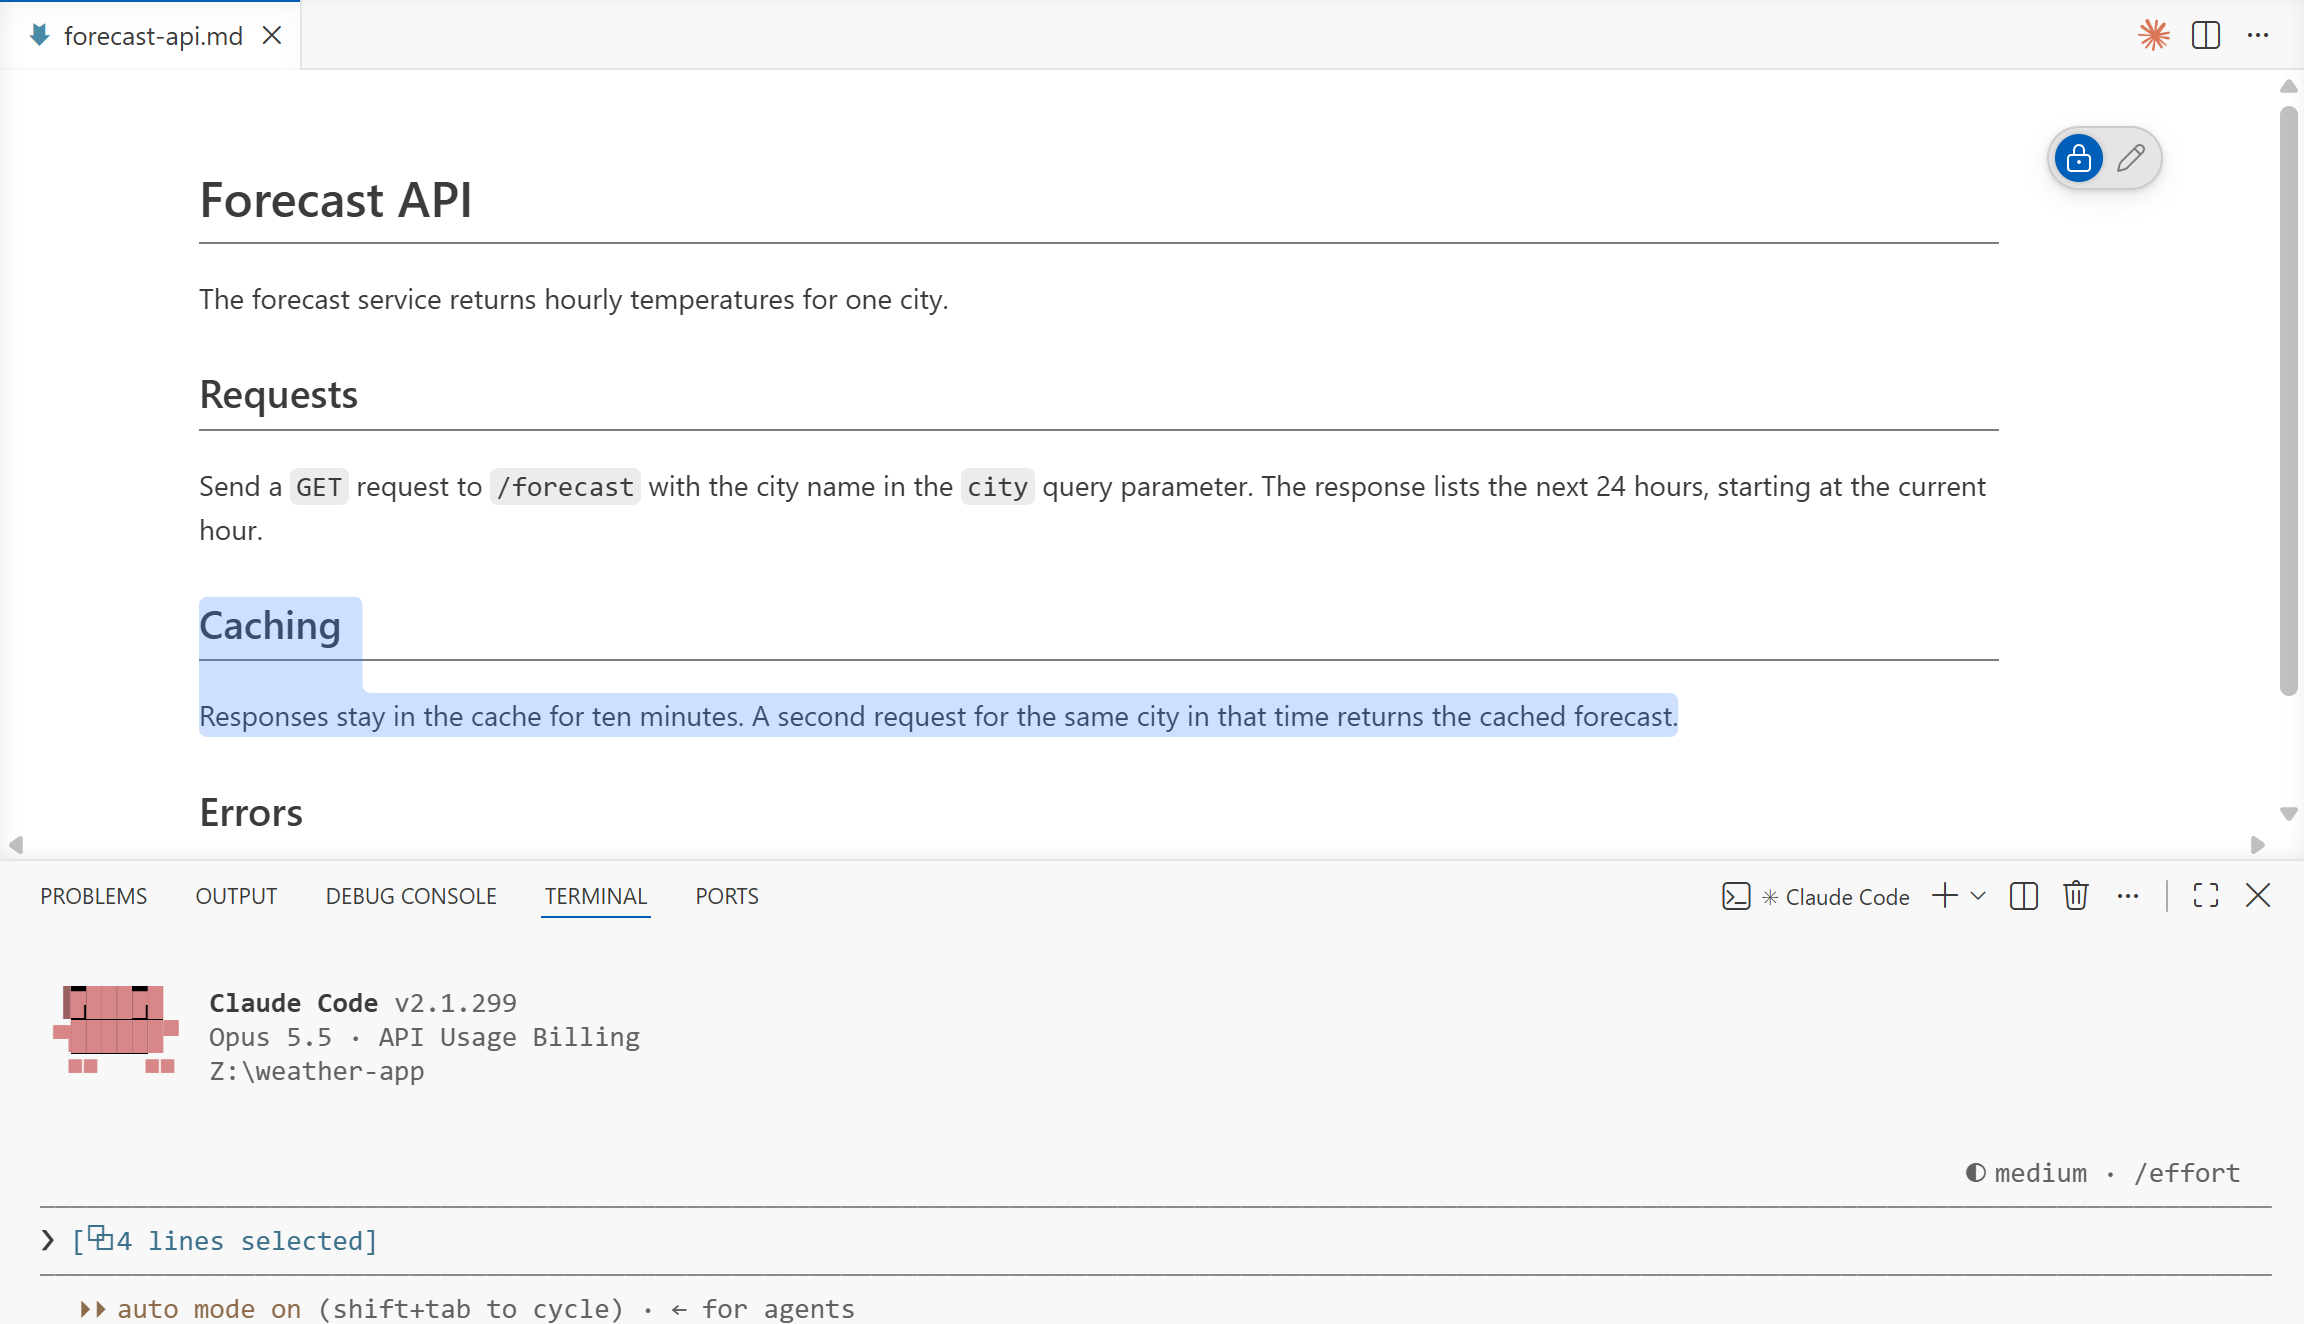
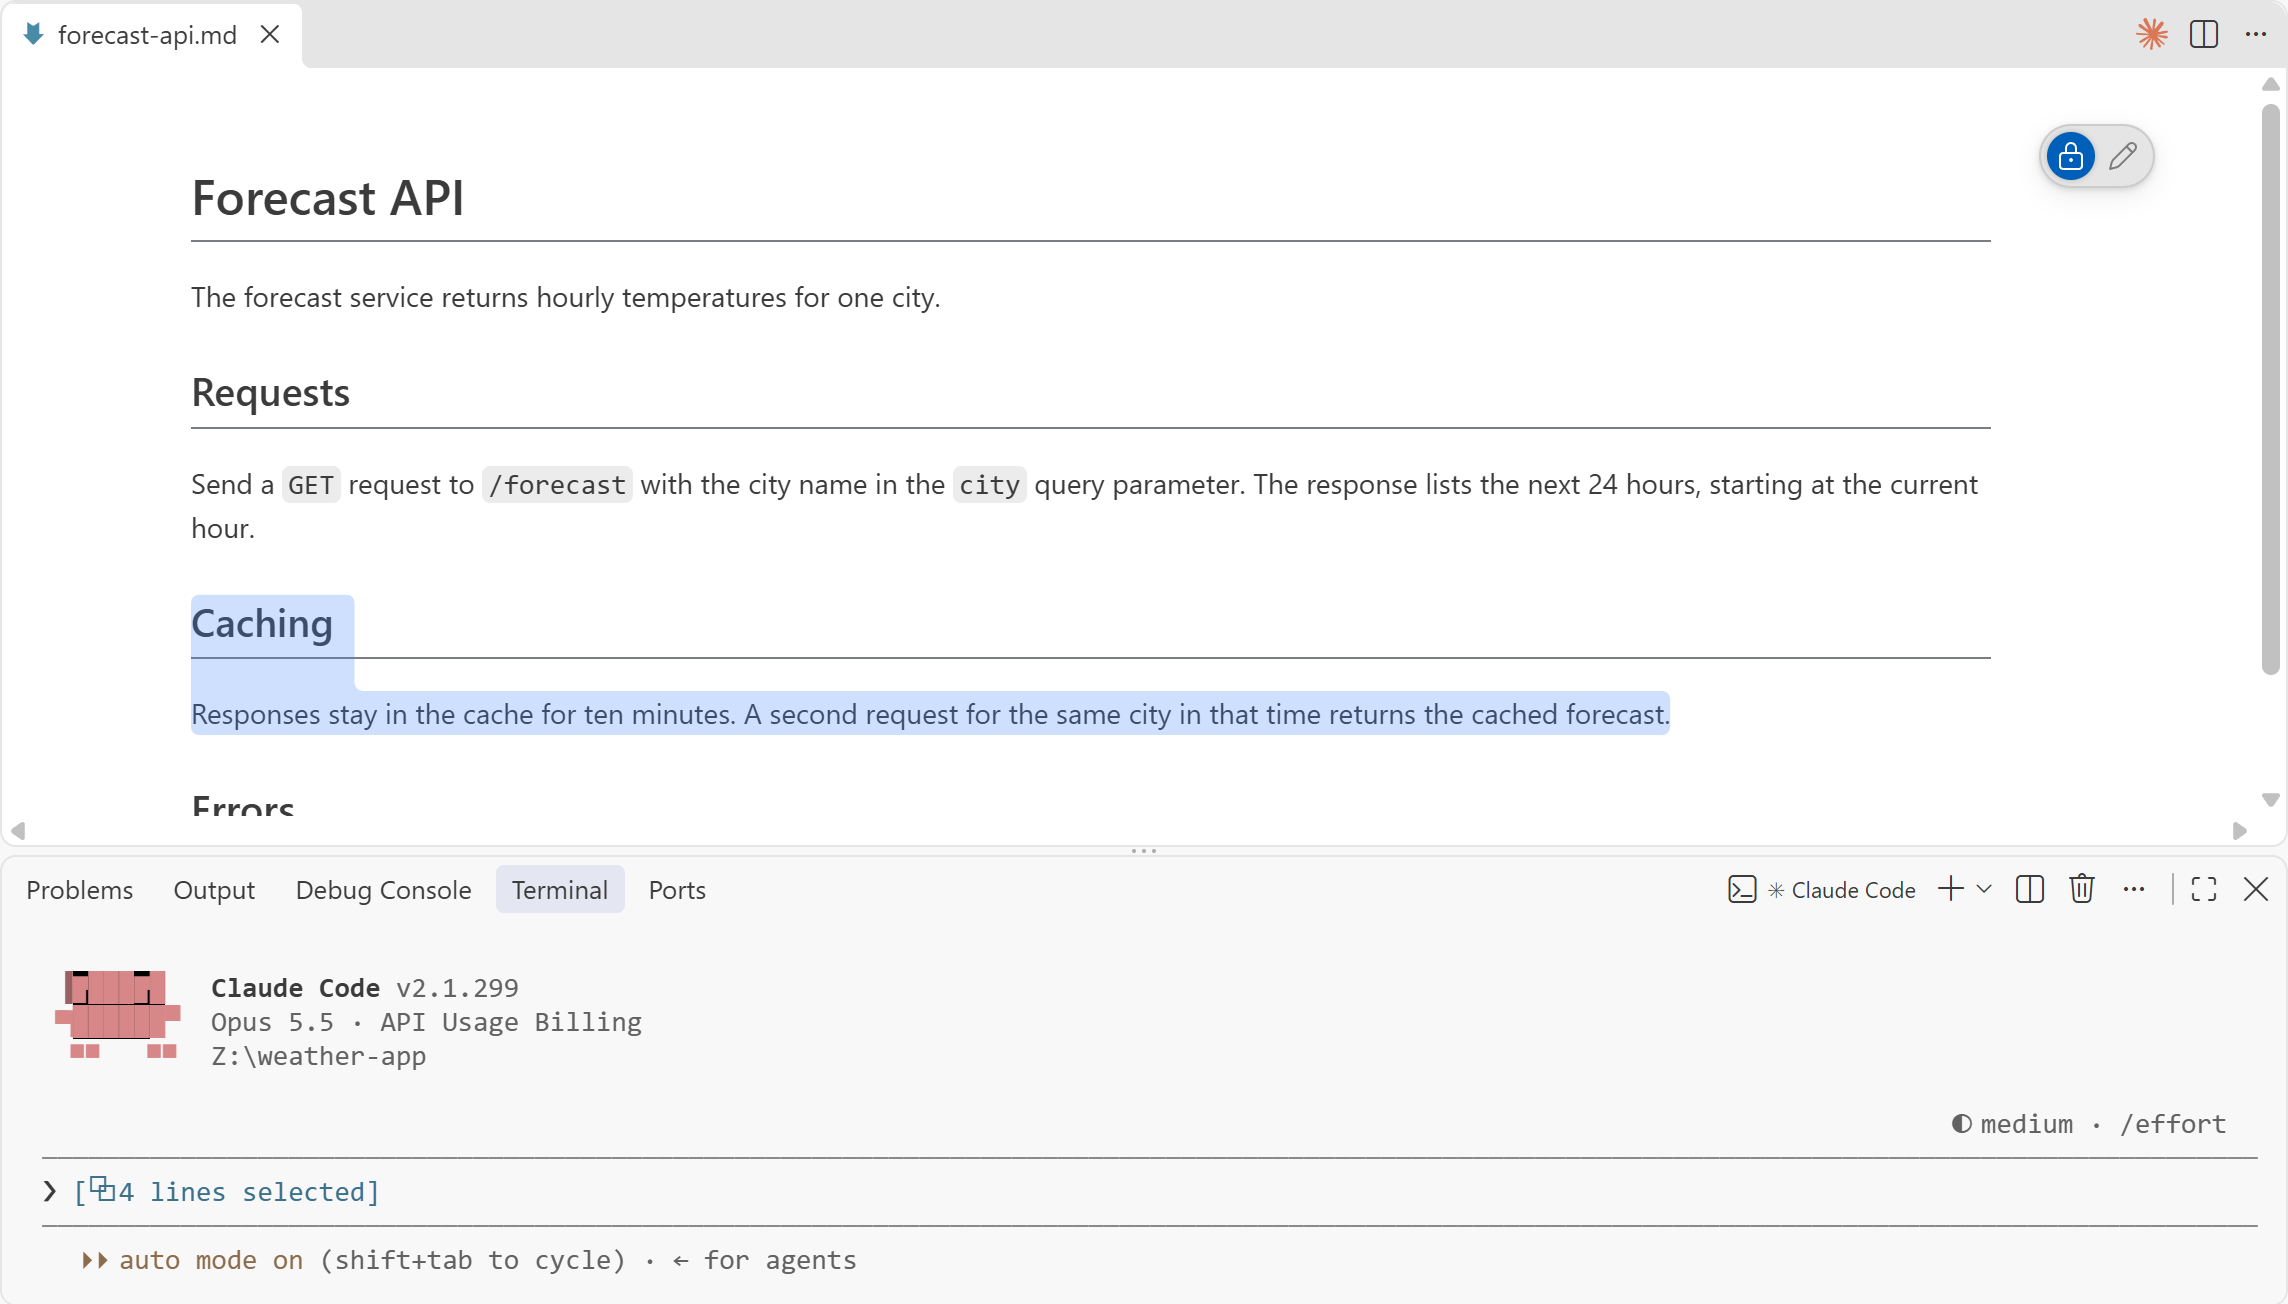
Regenerate the screenshots for VS Code 1.140
The 1.140 window makes each shot 16 px narrower and 20 px shorter, so the social preview's
crops and highlight boxes move by the same amount.

diff --git a/scripts/social-preview.html b/scripts/social-preview.html
@@ -74,10 +74,10 @@
 	</div>
 	<div class="stage">
 		<div class="deck">
-			<div class="card browser" data-src="browser-shared-page.png" data-crop="930 0 974 560" data-width="240" data-ring="1440 88 252 46"></div>
-			<div class="card markdown" data-src="markdown-selection-chip.png" data-crop="40 610 960 280" data-width="250"></div>
+			<div class="card browser" data-src="browser-shared-page.png" data-crop="914 0 974 560" data-width="240" data-ring="1424 88 252 46"></div>
+			<div class="card markdown" data-src="markdown-selection-chip.png" data-crop="40 590 960 280" data-width="250"></div>
 			<svg class="link" viewBox="0 0 640 320"><path d="M 470 224 C 500 228, 506 236, 494 247" fill="none" stroke="#ec8a63" stroke-width="1.6" stroke-dasharray="3 3" stroke-linecap="round"/></svg>
-			<div class="card chip" data-src="markdown-selection-chip.png" data-crop="1187 1140 1083 152" data-width="272" data-ring="1572 1232 232 46"></div>
+			<div class="card chip" data-src="markdown-selection-chip.png" data-crop="1171 1120 1083 152" data-width="272" data-ring="1556 1212 232 46"></div>
 		</div>
 	</div>
 	<script>
